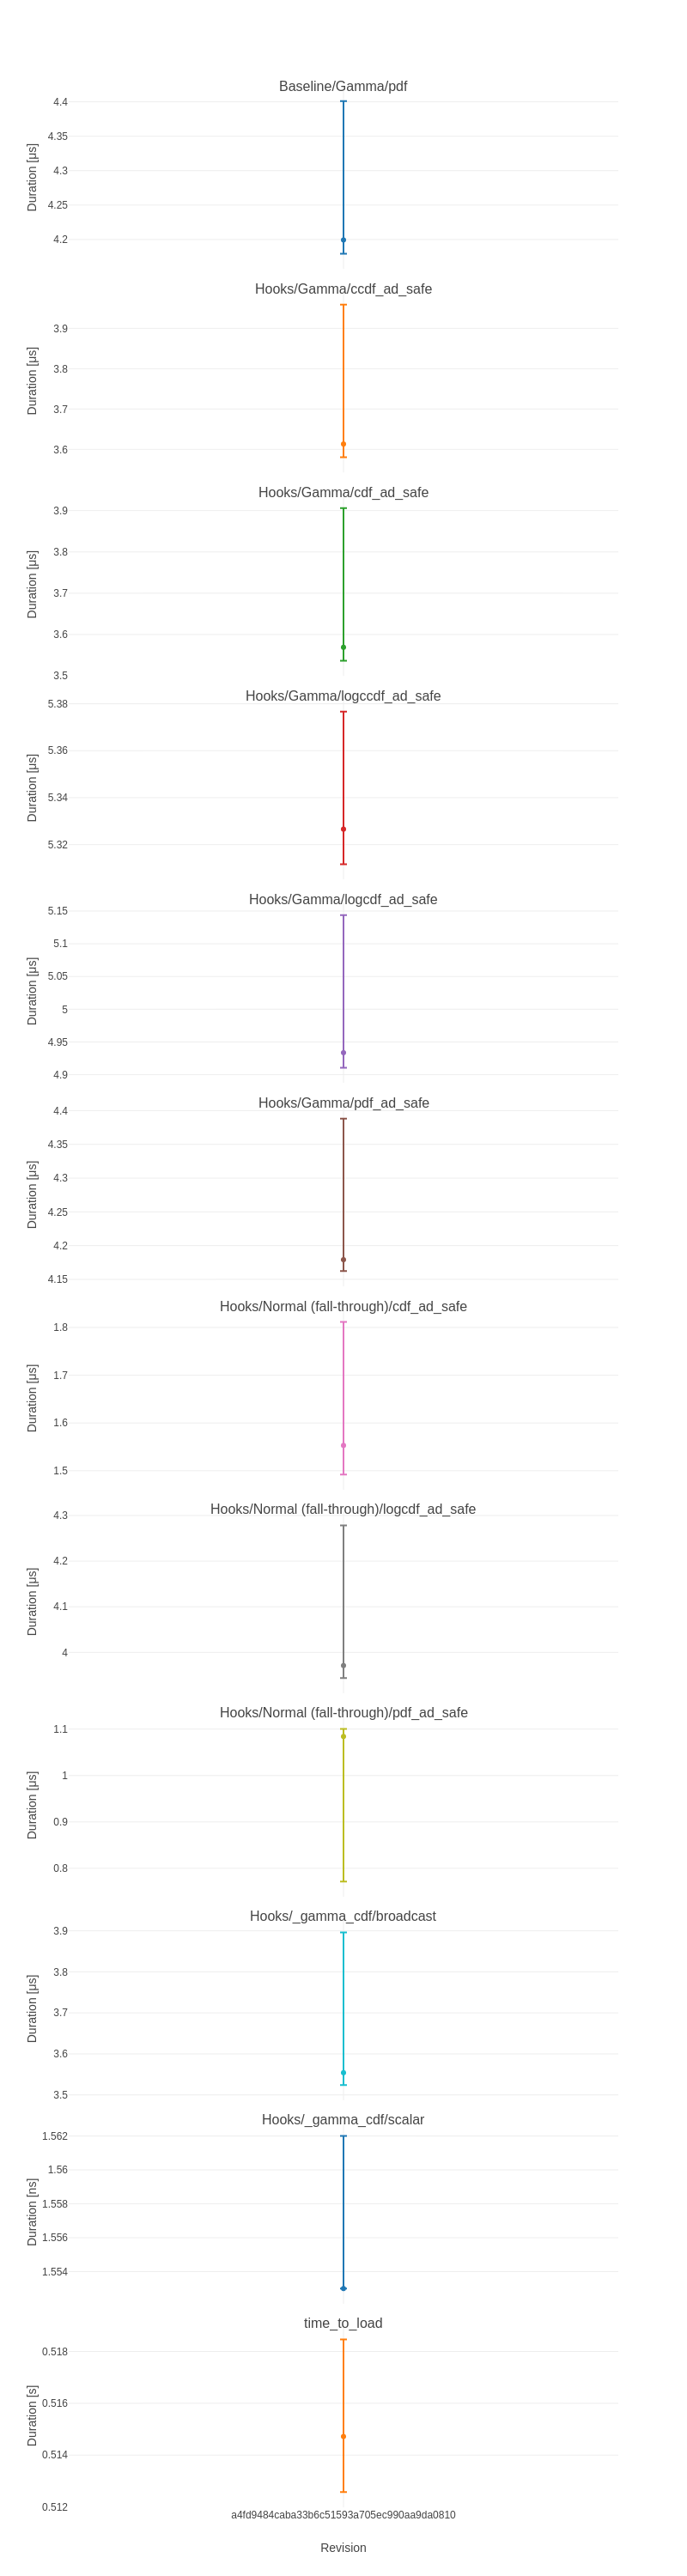
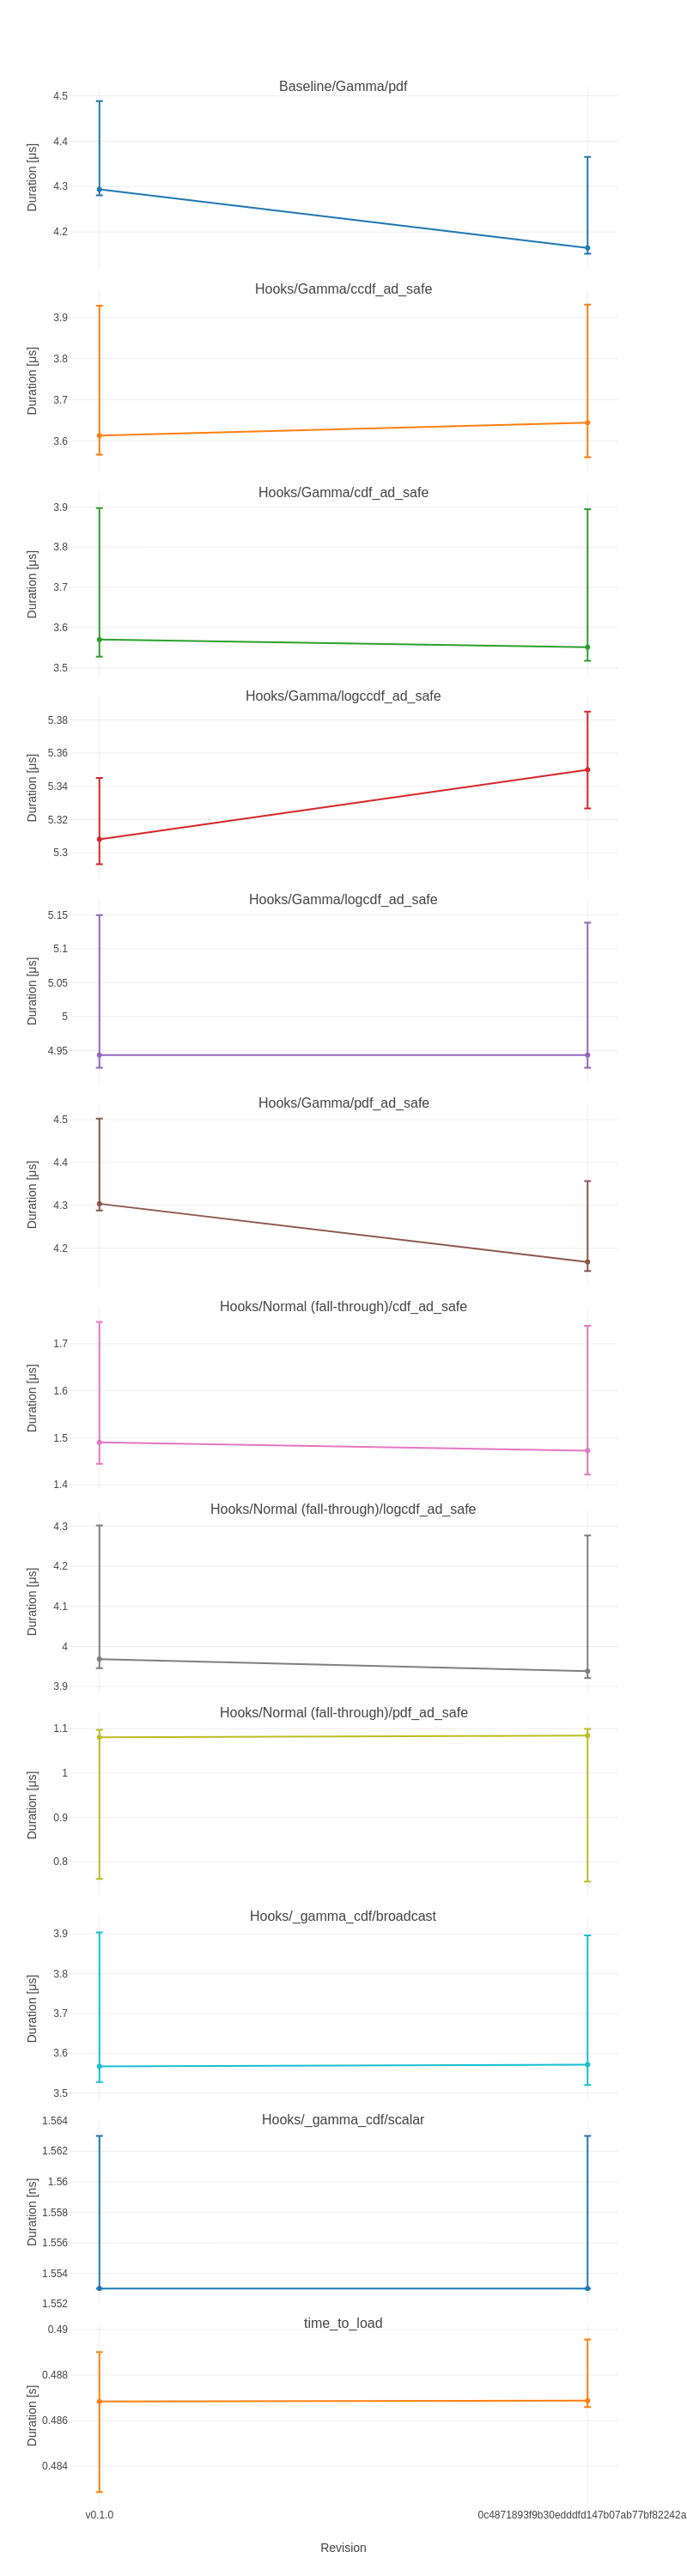
Deploying to benchmarks from @ EpiAware/EpiAwareADTools.jl@0c4871893f9b30edddfd147b07ab77bf82242a3c 🚀

diff --git a/history/table.md b/history/table.md
@@ -1,110 +1,110 @@
-|                                                       | a4fd9484caba33... |
-|:------------------------------------------------------|:-----------------:|
-| AD gradients/_gamma_cdf direct/Enzyme forward         | 7.53 ± 0.088 μs   |
-| AD gradients/_gamma_cdf direct/Enzyme reverse         | 0.309 ± 0.018 μs  |
-| AD gradients/_gamma_cdf direct/ForwardDiff            | 0.745 ± 0.093 μs  |
-| AD gradients/_gamma_cdf direct/Mooncake forward       | 6.25 ± 0.47 μs    |
-| AD gradients/_gamma_cdf direct/Mooncake reverse       | 5.14 ± 0.41 μs    |
-| AD gradients/_gamma_cdf direct/ReverseDiff (tape)     | 0.903 ± 0.19 μs   |
-| AD gradients/ccdf_ad_safe Gamma/Enzyme forward        | 9.63 ± 0.09 μs    |
-| AD gradients/ccdf_ad_safe Gamma/Enzyme reverse        | 4.49 ± 0.084 μs   |
-| AD gradients/ccdf_ad_safe Gamma/ForwardDiff           | 1.53 ± 0.015 μs   |
-| AD gradients/ccdf_ad_safe Gamma/Mooncake forward      | 7.69 ± 0.2 μs     |
-| AD gradients/ccdf_ad_safe Gamma/Mooncake reverse      | 22.2 ± 9.3 μs     |
-| AD gradients/ccdf_ad_safe Gamma/ReverseDiff (tape)    | 6.58 ± 0.24 μs    |
-| AD gradients/cdf_ad_safe Gamma/Enzyme forward         | 9.61 ± 0.1 μs     |
-| AD gradients/cdf_ad_safe Gamma/Enzyme reverse         | 4.49 ± 0.077 μs   |
-| AD gradients/cdf_ad_safe Gamma/ForwardDiff            | 1.5 ± 0.014 μs    |
-| AD gradients/cdf_ad_safe Gamma/Mooncake forward       | 7.68 ± 0.17 μs    |
-| AD gradients/cdf_ad_safe Gamma/Mooncake reverse       | 22 ± 8.8 μs       |
-| AD gradients/cdf_ad_safe Gamma/ReverseDiff (tape)     | 4.75 ± 0.11 μs    |
-| AD gradients/logccdf_ad_safe Gamma/Enzyme forward     | 9.65 ± 0.09 μs    |
-| AD gradients/logccdf_ad_safe Gamma/Enzyme reverse     | 4.63 ± 0.09 μs    |
-| AD gradients/logccdf_ad_safe Gamma/ForwardDiff        | 1.53 ± 0.014 μs   |
-| AD gradients/logccdf_ad_safe Gamma/Mooncake forward   | 8.08 ± 0.21 μs    |
-| AD gradients/logccdf_ad_safe Gamma/Mooncake reverse   | 22.3 ± 9.1 μs     |
-| AD gradients/logccdf_ad_safe Gamma/ReverseDiff (tape) | 5.47 ± 0.88 μs    |
-| AD gradients/logcdf_ad_safe Gamma/Enzyme forward      | 9.67 ± 0.1 μs     |
-| AD gradients/logcdf_ad_safe Gamma/Enzyme reverse      | 4.57 ± 0.076 μs   |
-| AD gradients/logcdf_ad_safe Gamma/ForwardDiff         | 1.55 ± 0.016 μs   |
-| AD gradients/logcdf_ad_safe Gamma/Mooncake forward    | 8 ± 0.19 μs       |
-| AD gradients/logcdf_ad_safe Gamma/Mooncake reverse    | 22.3 ± 9.1 μs     |
-| AD gradients/logcdf_ad_safe Gamma/ReverseDiff (tape)  | 5.22 ± 0.52 μs    |
-| AD gradients/pdf_ad_safe Gamma/Enzyme forward         | 8.45 ± 0.094 μs   |
-| AD gradients/pdf_ad_safe Gamma/Enzyme reverse         | 3.43 ± 0.073 μs   |
-| AD gradients/pdf_ad_safe Gamma/ForwardDiff            | 0.854 ± 0.093 μs  |
-| AD gradients/pdf_ad_safe Gamma/Mooncake forward       | 6.21 ± 0.38 μs    |
-| AD gradients/pdf_ad_safe Gamma/Mooncake reverse       | 28.3 ± 12 μs      |
-| AD gradients/pdf_ad_safe Gamma/ReverseDiff (tape)     | 15.2 ± 0.42 μs    |
-| Baseline/Gamma/ccdf                                   | 3.56 ± 0.38 μs    |
-| Baseline/Gamma/cdf                                    | 3.57 ± 0.37 μs    |
-| Baseline/Gamma/logccdf                                | 5.69 ± 0.069 μs   |
-| Baseline/Gamma/logcdf                                 | 5.55 ± 0.067 μs   |
-| Baseline/Gamma/pdf                                    | 4.2 ± 0.22 μs     |
-| Hooks/Gamma/ccdf_ad_safe                              | 3.61 ± 0.38 μs    |
-| Hooks/Gamma/cdf_ad_safe                               | 3.57 ± 0.37 μs    |
-| Hooks/Gamma/logccdf_ad_safe                           | 5.33 ± 0.065 μs   |
-| Hooks/Gamma/logcdf_ad_safe                            | 4.93 ± 0.23 μs    |
-| Hooks/Gamma/pdf_ad_safe                               | 4.18 ± 0.23 μs    |
-| Hooks/Normal (fall-through)/cdf_ad_safe               | 1.55 ± 0.32 μs    |
-| Hooks/Normal (fall-through)/logcdf_ad_safe            | 3.97 ± 0.33 μs    |
-| Hooks/Normal (fall-through)/pdf_ad_safe               | 1.08 ± 0.33 μs    |
-| Hooks/_gamma_cdf/broadcast                            | 3.55 ± 0.37 μs    |
-| Hooks/_gamma_cdf/scalar                               | 1.55 ± 0.009 ns   |
-| time_to_load                                          | 0.515 ± 0.0059 s  |
+|                                                       | v0.1.0           | 0c4871893f9b30... | v0.1.0 / 0c4871893f9b30... |
+|:------------------------------------------------------|:----------------:|:-----------------:|:--------------------------:|
+| AD gradients/_gamma_cdf direct/Enzyme forward         | 7.51 ± 0.06 μs   | 7.5 ± 0.053 μs    | 1 ± 0.011                  |
+| AD gradients/_gamma_cdf direct/Enzyme reverse         | 0.308 ± 0.018 μs | 0.307 ± 0.018 μs  | 1 ± 0.084                  |
+| AD gradients/_gamma_cdf direct/ForwardDiff            | 0.763 ± 0.1 μs   | 0.752 ± 0.1 μs    | 1.01 ± 0.2                 |
+| AD gradients/_gamma_cdf direct/Mooncake forward       | 6.13 ± 0.76 μs   | 6.11 ± 0.71 μs    | 1 ± 0.17                   |
+| AD gradients/_gamma_cdf direct/Mooncake reverse       | 4.93 ± 0.33 μs   | 5.05 ± 0.35 μs    | 0.976 ± 0.094              |
+| AD gradients/_gamma_cdf direct/ReverseDiff (tape)     | 0.97 ± 0.19 μs   | 0.944 ± 0.2 μs    | 1.03 ± 0.29                |
+| AD gradients/ccdf_ad_safe Gamma/Enzyme forward        | 9.51 ± 0.08 μs   | 9.67 ± 0.09 μs    | 0.983 ± 0.012              |
+| AD gradients/ccdf_ad_safe Gamma/Enzyme reverse        | 4.58 ± 0.073 μs  | 4.59 ± 0.057 μs   | 0.998 ± 0.02               |
+| AD gradients/ccdf_ad_safe Gamma/ForwardDiff           | 1.54 ± 0.014 μs  | 1.51 ± 0.011 μs   | 1.02 ± 0.012               |
+| AD gradients/ccdf_ad_safe Gamma/Mooncake forward      | 7.84 ± 0.13 μs   | 7.75 ± 0.14 μs    | 1.01 ± 0.025               |
+| AD gradients/ccdf_ad_safe Gamma/Mooncake reverse      | 22.1 ± 8.9 μs    | 21.6 ± 8.7 μs     | 1.02 ± 0.58                |
+| AD gradients/ccdf_ad_safe Gamma/ReverseDiff (tape)    | 6.49 ± 0.23 μs   | 6.45 ± 0.2 μs     | 1.01 ± 0.047               |
+| AD gradients/cdf_ad_safe Gamma/Enzyme forward         | 9.54 ± 0.09 μs   | 9.61 ± 0.1 μs     | 0.993 ± 0.014              |
+| AD gradients/cdf_ad_safe Gamma/Enzyme reverse         | 4.57 ± 0.07 μs   | 4.56 ± 0.052 μs   | 1 ± 0.019                  |
+| AD gradients/cdf_ad_safe Gamma/ForwardDiff            | 1.51 ± 0.013 μs  | 1.5 ± 0.011 μs    | 1 ± 0.011                  |
+| AD gradients/cdf_ad_safe Gamma/Mooncake forward       | 7.81 ± 0.14 μs   | 7.63 ± 0.13 μs    | 1.02 ± 0.025               |
+| AD gradients/cdf_ad_safe Gamma/Mooncake reverse       | 22.2 ± 9 μs      | 21.8 ± 9 μs       | 1.02 ± 0.59                |
+| AD gradients/cdf_ad_safe Gamma/ReverseDiff (tape)     | 4.73 ± 0.09 μs   | 4.69 ± 0.08 μs    | 1.01 ± 0.026               |
+| AD gradients/logccdf_ad_safe Gamma/Enzyme forward     | 9.58 ± 0.089 μs  | 9.66 ± 0.09 μs    | 0.992 ± 0.013              |
+| AD gradients/logccdf_ad_safe Gamma/Enzyme reverse     | 4.69 ± 0.07 μs   | 4.71 ± 0.052 μs   | 0.996 ± 0.018              |
+| AD gradients/logccdf_ad_safe Gamma/ForwardDiff        | 1.54 ± 0.013 μs  | 1.55 ± 0.012 μs   | 0.994 ± 0.011              |
+| AD gradients/logccdf_ad_safe Gamma/Mooncake forward   | 8.17 ± 0.16 μs   | 8 ± 0.15 μs       | 1.02 ± 0.028               |
+| AD gradients/logccdf_ad_safe Gamma/Mooncake reverse   | 22.6 ± 9.3 μs    | 22 ± 9 μs         | 1.03 ± 0.6                 |
+| AD gradients/logccdf_ad_safe Gamma/ReverseDiff (tape) | 5.5 ± 0.92 μs    | 5.33 ± 0.93 μs    | 1.03 ± 0.25                |
+| AD gradients/logcdf_ad_safe Gamma/Enzyme forward      | 9.66 ± 0.1 μs    | 9.7 ± 0.09 μs     | 0.996 ± 0.014              |
+| AD gradients/logcdf_ad_safe Gamma/Enzyme reverse      | 4.68 ± 0.064 μs  | 4.72 ± 0.057 μs   | 0.993 ± 0.018              |
+| AD gradients/logcdf_ad_safe Gamma/ForwardDiff         | 1.56 ± 0.013 μs  | 1.6 ± 0.011 μs    | 0.973 ± 0.01               |
+| AD gradients/logcdf_ad_safe Gamma/Mooncake forward    | 8.01 ± 0.15 μs   | 8 ± 0.13 μs       | 1 ± 0.025                  |
+| AD gradients/logcdf_ad_safe Gamma/Mooncake reverse    | 22.2 ± 9.1 μs    | 22.1 ± 9 μs       | 1 ± 0.58                   |
+| AD gradients/logcdf_ad_safe Gamma/ReverseDiff (tape)  | 5.22 ± 0.78 μs   | 5.11 ± 0.39 μs    | 1.02 ± 0.17                |
+| AD gradients/pdf_ad_safe Gamma/Enzyme forward         | 8.41 ± 0.067 μs  | 8.52 ± 0.064 μs   | 0.988 ± 0.011              |
+| AD gradients/pdf_ad_safe Gamma/Enzyme reverse         | 3.56 ± 0.052 μs  | 3.55 ± 0.052 μs   | 1 ± 0.021                  |
+| AD gradients/pdf_ad_safe Gamma/ForwardDiff            | 0.836 ± 0.085 μs | 0.765 ± 0.091 μs  | 1.09 ± 0.17                |
+| AD gradients/pdf_ad_safe Gamma/Mooncake forward       | 6.26 ± 0.29 μs   | 6.17 ± 0.29 μs    | 1.01 ± 0.067               |
+| AD gradients/pdf_ad_safe Gamma/Mooncake reverse       | 27.4 ± 11 μs     | 27.8 ± 12 μs      | 0.984 ± 0.57               |
+| AD gradients/pdf_ad_safe Gamma/ReverseDiff (tape)     | 16.7 ± 0.35 μs   | 14.9 ± 0.34 μs    | 1.12 ± 0.035               |
+| Baseline/Gamma/ccdf                                   | 3.58 ± 0.36 μs   | 3.56 ± 0.38 μs    | 1.01 ± 0.15                |
+| Baseline/Gamma/cdf                                    | 3.58 ± 0.37 μs   | 3.57 ± 0.39 μs    | 1 ± 0.15                   |
+| Baseline/Gamma/logccdf                                | 5.72 ± 0.07 μs   | 5.66 ± 0.038 μs   | 1.01 ± 0.014               |
+| Baseline/Gamma/logcdf                                 | 5.59 ± 0.059 μs  | 5.55 ± 0.047 μs   | 1.01 ± 0.014               |
+| Baseline/Gamma/pdf                                    | 4.29 ± 0.21 μs   | 4.16 ± 0.21 μs    | 1.03 ± 0.073               |
+| Hooks/Gamma/ccdf_ad_safe                              | 3.61 ± 0.36 μs   | 3.64 ± 0.37 μs    | 0.991 ± 0.14               |
+| Hooks/Gamma/cdf_ad_safe                               | 3.57 ± 0.37 μs   | 3.55 ± 0.38 μs    | 1.01 ± 0.15                |
+| Hooks/Gamma/logccdf_ad_safe                           | 5.31 ± 0.052 μs  | 5.35 ± 0.058 μs   | 0.992 ± 0.015              |
+| Hooks/Gamma/logcdf_ad_safe                            | 4.94 ± 0.22 μs   | 4.94 ± 0.21 μs    | 1 ± 0.063                  |
+| Hooks/Gamma/pdf_ad_safe                               | 4.3 ± 0.21 μs    | 4.17 ± 0.21 μs    | 1.03 ± 0.073               |
+| Hooks/Normal (fall-through)/cdf_ad_safe               | 1.49 ± 0.3 μs    | 1.47 ± 0.32 μs    | 1.01 ± 0.3                 |
+| Hooks/Normal (fall-through)/logcdf_ad_safe            | 3.97 ± 0.36 μs   | 3.94 ± 0.36 μs    | 1.01 ± 0.13                |
+| Hooks/Normal (fall-through)/pdf_ad_safe               | 1.08 ± 0.34 μs   | 1.08 ± 0.34 μs    | 0.996 ± 0.44               |
+| Hooks/_gamma_cdf/broadcast                            | 3.57 ± 0.38 μs   | 3.57 ± 0.38 μs    | 0.999 ± 0.15               |
+| Hooks/_gamma_cdf/scalar                               | 1.55 ± 0.01 ns   | 1.55 ± 0.01 ns    | 1 ± 0.0091                 |
+| time_to_load                                          | 0.487 ± 0.0061 s | 0.487 ± 0.003 s   | 1 ± 0.014                  |
 
-|                                                       | a4fd9484caba33...         |
-|:------------------------------------------------------|:-------------------------:|
-| AD gradients/_gamma_cdf direct/Enzyme forward         | 30  allocs: 1.06 kB       |
-| AD gradients/_gamma_cdf direct/Enzyme reverse         | 2  allocs: 0.0781 kB      |
-| AD gradients/_gamma_cdf direct/ForwardDiff            | 7  allocs: 0.359 kB       |
-| AD gradients/_gamma_cdf direct/Mooncake forward       | 0.064 k allocs: 3.06 kB   |
-| AD gradients/_gamma_cdf direct/Mooncake reverse       | 0.064 k allocs: 2.9 kB    |
-| AD gradients/_gamma_cdf direct/ReverseDiff (tape)     | 16  allocs: 0.656 kB      |
-| AD gradients/ccdf_ad_safe Gamma/Enzyme forward        | 0.036 k allocs: 1.11 kB   |
-| AD gradients/ccdf_ad_safe Gamma/Enzyme reverse        | 24  allocs: 1 kB          |
-| AD gradients/ccdf_ad_safe Gamma/ForwardDiff           | 7  allocs: 0.266 kB       |
-| AD gradients/ccdf_ad_safe Gamma/Mooncake forward      | 0.058 k allocs: 2.91 kB   |
-| AD gradients/ccdf_ad_safe Gamma/Mooncake reverse      | 0.217 k allocs: 26 kB     |
-| AD gradients/ccdf_ad_safe Gamma/ReverseDiff (tape)    | 0.082 k allocs: 3.55 kB   |
-| AD gradients/cdf_ad_safe Gamma/Enzyme forward         | 0.036 k allocs: 1.11 kB   |
-| AD gradients/cdf_ad_safe Gamma/Enzyme reverse         | 24  allocs: 1 kB          |
-| AD gradients/cdf_ad_safe Gamma/ForwardDiff            | 7  allocs: 0.266 kB       |
-| AD gradients/cdf_ad_safe Gamma/Mooncake forward       | 0.058 k allocs: 2.91 kB   |
-| AD gradients/cdf_ad_safe Gamma/Mooncake reverse       | 0.217 k allocs: 26 kB     |
-| AD gradients/cdf_ad_safe Gamma/ReverseDiff (tape)     | 0.061 k allocs: 2.47 kB   |
-| AD gradients/logccdf_ad_safe Gamma/Enzyme forward     | 0.036 k allocs: 1.11 kB   |
-| AD gradients/logccdf_ad_safe Gamma/Enzyme reverse     | 24  allocs: 1.03 kB       |
-| AD gradients/logccdf_ad_safe Gamma/ForwardDiff        | 7  allocs: 0.266 kB       |
-| AD gradients/logccdf_ad_safe Gamma/Mooncake forward   | 0.058 k allocs: 2.91 kB   |
-| AD gradients/logccdf_ad_safe Gamma/Mooncake reverse   | 0.218 k allocs: 26.2 kB   |
-| AD gradients/logccdf_ad_safe Gamma/ReverseDiff (tape) | 0.093 k allocs: 3.75 kB   |
-| AD gradients/logcdf_ad_safe Gamma/Enzyme forward      | 0.036 k allocs: 1.11 kB   |
-| AD gradients/logcdf_ad_safe Gamma/Enzyme reverse      | 24  allocs: 1.03 kB       |
-| AD gradients/logcdf_ad_safe Gamma/ForwardDiff         | 7  allocs: 0.266 kB       |
-| AD gradients/logcdf_ad_safe Gamma/Mooncake forward    | 0.058 k allocs: 2.91 kB   |
-| AD gradients/logcdf_ad_safe Gamma/Mooncake reverse    | 0.218 k allocs: 26.2 kB   |
-| AD gradients/logcdf_ad_safe Gamma/ReverseDiff (tape)  | 0.078 k allocs: 3.28 kB   |
-| AD gradients/pdf_ad_safe Gamma/Enzyme forward         | 0.036 k allocs: 1.11 kB   |
-| AD gradients/pdf_ad_safe Gamma/Enzyme reverse         | 24  allocs: 1.03 kB       |
-| AD gradients/pdf_ad_safe Gamma/ForwardDiff            | 7  allocs: 0.266 kB       |
-| AD gradients/pdf_ad_safe Gamma/Mooncake forward       | 0.058 k allocs: 2.91 kB   |
-| AD gradients/pdf_ad_safe Gamma/Mooncake reverse       | 0.283 k allocs: 0.0323 MB |
-| AD gradients/pdf_ad_safe Gamma/ReverseDiff (tape)     | 0.243 k allocs: 10.4 kB   |
-| Baseline/Gamma/ccdf                                   | 2  allocs: 0.906 kB       |
-| Baseline/Gamma/cdf                                    | 2  allocs: 0.906 kB       |
-| Baseline/Gamma/logccdf                                | 2  allocs: 0.906 kB       |
-| Baseline/Gamma/logcdf                                 | 2  allocs: 0.906 kB       |
-| Baseline/Gamma/pdf                                    | 2  allocs: 0.906 kB       |
-| Hooks/Gamma/ccdf_ad_safe                              | 2  allocs: 0.906 kB       |
-| Hooks/Gamma/cdf_ad_safe                               | 2  allocs: 0.906 kB       |
-| Hooks/Gamma/logccdf_ad_safe                           | 2  allocs: 0.906 kB       |
-| Hooks/Gamma/logcdf_ad_safe                            | 2  allocs: 0.906 kB       |
-| Hooks/Gamma/pdf_ad_safe                               | 2  allocs: 0.906 kB       |
-| Hooks/Normal (fall-through)/cdf_ad_safe               | 2  allocs: 0.906 kB       |
-| Hooks/Normal (fall-through)/logcdf_ad_safe            | 2  allocs: 0.906 kB       |
-| Hooks/Normal (fall-through)/pdf_ad_safe               | 2  allocs: 0.906 kB       |
-| Hooks/_gamma_cdf/broadcast                            | 2  allocs: 0.906 kB       |
-| Hooks/_gamma_cdf/scalar                               | 0  allocs: 0 B            |
-| time_to_load                                          | 0.15 k allocs: 11.7 kB    |
+|                                                       | v0.1.0                    | 0c4871893f9b30...         | v0.1.0 / 0c4871893f9b30... |
+|:------------------------------------------------------|:-------------------------:|:-------------------------:|:--------------------------:|
+| AD gradients/_gamma_cdf direct/Enzyme forward         | 30  allocs: 1.06 kB       | 30  allocs: 1.06 kB       | 1                          |
+| AD gradients/_gamma_cdf direct/Enzyme reverse         | 2  allocs: 0.0781 kB      | 2  allocs: 0.0781 kB      | 1                          |
+| AD gradients/_gamma_cdf direct/ForwardDiff            | 7  allocs: 0.359 kB       | 7  allocs: 0.359 kB       | 1                          |
+| AD gradients/_gamma_cdf direct/Mooncake forward       | 0.064 k allocs: 3.06 kB   | 0.064 k allocs: 3.06 kB   | 1                          |
+| AD gradients/_gamma_cdf direct/Mooncake reverse       | 0.064 k allocs: 2.9 kB    | 0.064 k allocs: 2.9 kB    | 1                          |
+| AD gradients/_gamma_cdf direct/ReverseDiff (tape)     | 16  allocs: 0.656 kB      | 16  allocs: 0.656 kB      | 1                          |
+| AD gradients/ccdf_ad_safe Gamma/Enzyme forward        | 0.036 k allocs: 1.11 kB   | 0.036 k allocs: 1.11 kB   | 1                          |
+| AD gradients/ccdf_ad_safe Gamma/Enzyme reverse        | 24  allocs: 1 kB          | 24  allocs: 1 kB          | 1                          |
+| AD gradients/ccdf_ad_safe Gamma/ForwardDiff           | 7  allocs: 0.266 kB       | 7  allocs: 0.266 kB       | 1                          |
+| AD gradients/ccdf_ad_safe Gamma/Mooncake forward      | 0.058 k allocs: 2.91 kB   | 0.058 k allocs: 2.91 kB   | 1                          |
+| AD gradients/ccdf_ad_safe Gamma/Mooncake reverse      | 0.217 k allocs: 26 kB     | 0.217 k allocs: 26 kB     | 1                          |
+| AD gradients/ccdf_ad_safe Gamma/ReverseDiff (tape)    | 0.082 k allocs: 3.55 kB   | 0.082 k allocs: 3.55 kB   | 1                          |
+| AD gradients/cdf_ad_safe Gamma/Enzyme forward         | 0.036 k allocs: 1.11 kB   | 0.036 k allocs: 1.11 kB   | 1                          |
+| AD gradients/cdf_ad_safe Gamma/Enzyme reverse         | 24  allocs: 1 kB          | 24  allocs: 1 kB          | 1                          |
+| AD gradients/cdf_ad_safe Gamma/ForwardDiff            | 7  allocs: 0.266 kB       | 7  allocs: 0.266 kB       | 1                          |
+| AD gradients/cdf_ad_safe Gamma/Mooncake forward       | 0.058 k allocs: 2.91 kB   | 0.058 k allocs: 2.91 kB   | 1                          |
+| AD gradients/cdf_ad_safe Gamma/Mooncake reverse       | 0.217 k allocs: 26 kB     | 0.217 k allocs: 26 kB     | 1                          |
+| AD gradients/cdf_ad_safe Gamma/ReverseDiff (tape)     | 0.061 k allocs: 2.47 kB   | 0.061 k allocs: 2.47 kB   | 1                          |
+| AD gradients/logccdf_ad_safe Gamma/Enzyme forward     | 0.036 k allocs: 1.11 kB   | 0.036 k allocs: 1.11 kB   | 1                          |
+| AD gradients/logccdf_ad_safe Gamma/Enzyme reverse     | 24  allocs: 1.03 kB       | 24  allocs: 1.03 kB       | 1                          |
+| AD gradients/logccdf_ad_safe Gamma/ForwardDiff        | 7  allocs: 0.266 kB       | 7  allocs: 0.266 kB       | 1                          |
+| AD gradients/logccdf_ad_safe Gamma/Mooncake forward   | 0.058 k allocs: 2.91 kB   | 0.058 k allocs: 2.91 kB   | 1                          |
+| AD gradients/logccdf_ad_safe Gamma/Mooncake reverse   | 0.218 k allocs: 26.2 kB   | 0.218 k allocs: 26.2 kB   | 1                          |
+| AD gradients/logccdf_ad_safe Gamma/ReverseDiff (tape) | 0.093 k allocs: 3.75 kB   | 0.093 k allocs: 3.75 kB   | 1                          |
+| AD gradients/logcdf_ad_safe Gamma/Enzyme forward      | 0.036 k allocs: 1.11 kB   | 0.036 k allocs: 1.11 kB   | 1                          |
+| AD gradients/logcdf_ad_safe Gamma/Enzyme reverse      | 24  allocs: 1.03 kB       | 24  allocs: 1.03 kB       | 1                          |
+| AD gradients/logcdf_ad_safe Gamma/ForwardDiff         | 7  allocs: 0.266 kB       | 7  allocs: 0.266 kB       | 1                          |
+| AD gradients/logcdf_ad_safe Gamma/Mooncake forward    | 0.058 k allocs: 2.91 kB   | 0.058 k allocs: 2.91 kB   | 1                          |
+| AD gradients/logcdf_ad_safe Gamma/Mooncake reverse    | 0.218 k allocs: 26.2 kB   | 0.218 k allocs: 26.2 kB   | 1                          |
+| AD gradients/logcdf_ad_safe Gamma/ReverseDiff (tape)  | 0.078 k allocs: 3.28 kB   | 0.078 k allocs: 3.28 kB   | 1                          |
+| AD gradients/pdf_ad_safe Gamma/Enzyme forward         | 0.036 k allocs: 1.11 kB   | 0.036 k allocs: 1.11 kB   | 1                          |
+| AD gradients/pdf_ad_safe Gamma/Enzyme reverse         | 24  allocs: 1.03 kB       | 24  allocs: 1.03 kB       | 1                          |
+| AD gradients/pdf_ad_safe Gamma/ForwardDiff            | 7  allocs: 0.266 kB       | 7  allocs: 0.266 kB       | 1                          |
+| AD gradients/pdf_ad_safe Gamma/Mooncake forward       | 0.058 k allocs: 2.91 kB   | 0.058 k allocs: 2.91 kB   | 1                          |
+| AD gradients/pdf_ad_safe Gamma/Mooncake reverse       | 0.283 k allocs: 0.0323 MB | 0.283 k allocs: 0.0323 MB | 1                          |
+| AD gradients/pdf_ad_safe Gamma/ReverseDiff (tape)     | 0.243 k allocs: 10.4 kB   | 0.243 k allocs: 10.4 kB   | 1                          |
+| Baseline/Gamma/ccdf                                   | 2  allocs: 0.906 kB       | 2  allocs: 0.906 kB       | 1                          |
+| Baseline/Gamma/cdf                                    | 2  allocs: 0.906 kB       | 2  allocs: 0.906 kB       | 1                          |
+| Baseline/Gamma/logccdf                                | 2  allocs: 0.906 kB       | 2  allocs: 0.906 kB       | 1                          |
+| Baseline/Gamma/logcdf                                 | 2  allocs: 0.906 kB       | 2  allocs: 0.906 kB       | 1                          |
+| Baseline/Gamma/pdf                                    | 2  allocs: 0.906 kB       | 2  allocs: 0.906 kB       | 1                          |
+| Hooks/Gamma/ccdf_ad_safe                              | 2  allocs: 0.906 kB       | 2  allocs: 0.906 kB       | 1                          |
+| Hooks/Gamma/cdf_ad_safe                               | 2  allocs: 0.906 kB       | 2  allocs: 0.906 kB       | 1                          |
+| Hooks/Gamma/logccdf_ad_safe                           | 2  allocs: 0.906 kB       | 2  allocs: 0.906 kB       | 1                          |
+| Hooks/Gamma/logcdf_ad_safe                            | 2  allocs: 0.906 kB       | 2  allocs: 0.906 kB       | 1                          |
+| Hooks/Gamma/pdf_ad_safe                               | 2  allocs: 0.906 kB       | 2  allocs: 0.906 kB       | 1                          |
+| Hooks/Normal (fall-through)/cdf_ad_safe               | 2  allocs: 0.906 kB       | 2  allocs: 0.906 kB       | 1                          |
+| Hooks/Normal (fall-through)/logcdf_ad_safe            | 2  allocs: 0.906 kB       | 2  allocs: 0.906 kB       | 1                          |
+| Hooks/Normal (fall-through)/pdf_ad_safe               | 2  allocs: 0.906 kB       | 2  allocs: 0.906 kB       | 1                          |
+| Hooks/_gamma_cdf/broadcast                            | 2  allocs: 0.906 kB       | 2  allocs: 0.906 kB       | 1                          |
+| Hooks/_gamma_cdf/scalar                               | 0  allocs: 0 B            | 0  allocs: 0 B            |                            |
+| time_to_load                                          | 0.15 k allocs: 11.7 kB    | 0.15 k allocs: 11.7 kB    | 1                          |
 

diff --git a/history/README.md b/history/README.md
@@ -1,6 +1,6 @@
 # EpiAwareADTools.jl benchmark history
 
-Revisions: a4fd9484caba33b6c51593a705ec990aa9da0810
+Revisions: v0.1.0,0c4871893f9b30edddfd147b07ab77bf82242a3c
 
 See `table.md` for the ratio summary and the PNG
 files in this folder for per-benchmark timelines.